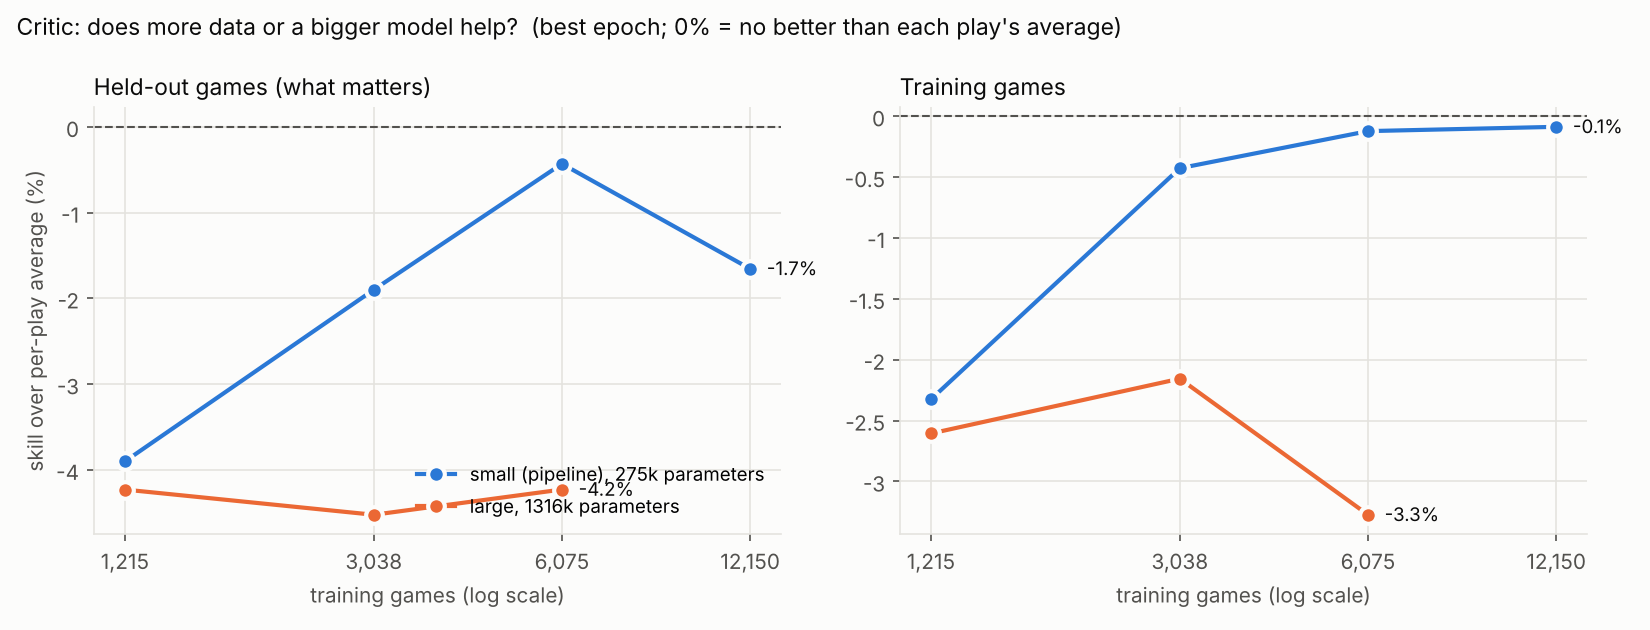
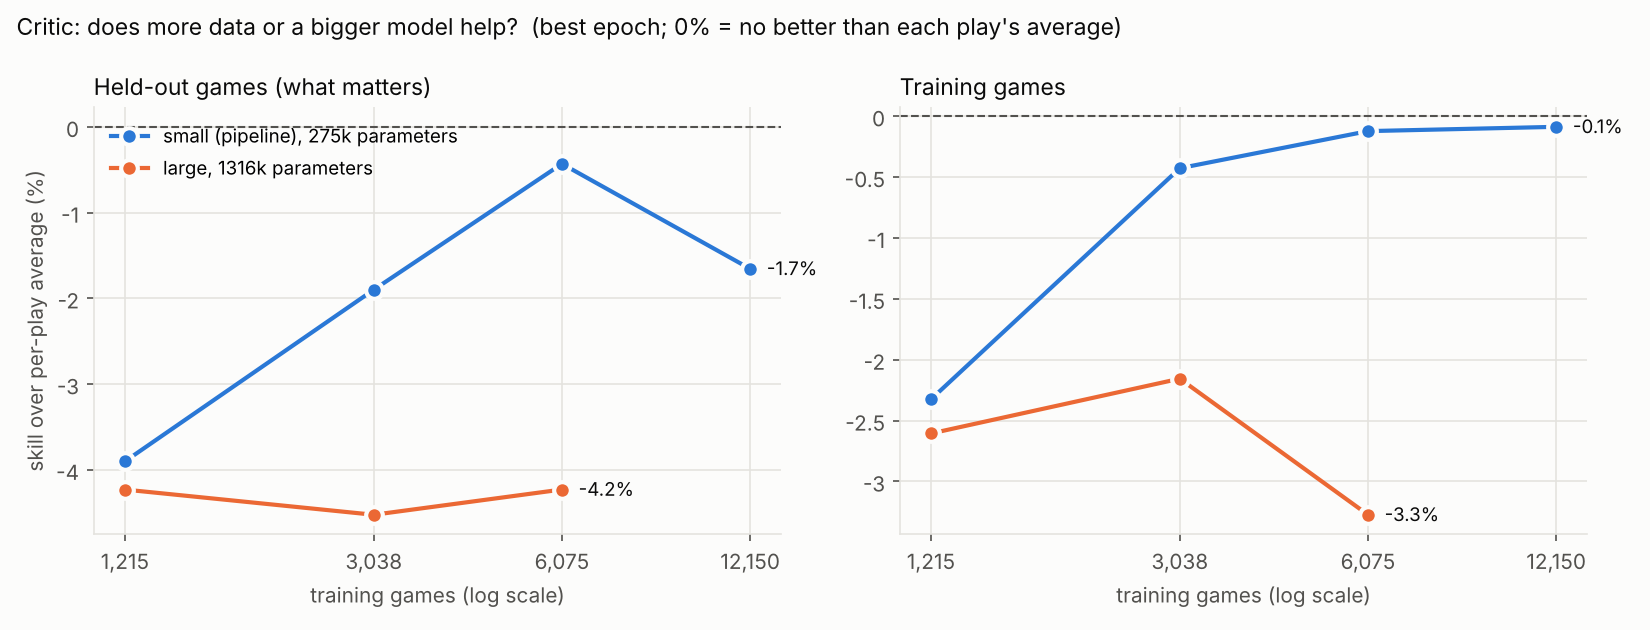
Learning-curve plot: move legend clear of labels
Claude-Session: https://claude.ai/code/session_0181JhLqWhXqLGwGgcMDkkaL

Changed region(s): [[0.2473, 0.7238, 0.4636, 0.8143], [0.0618, 0.181, 0.2782, 0.3016]]

diff --git a/scripts/critic_learning_curve.py b/scripts/critic_learning_curve.py
@@ -134,7 +134,7 @@ def plot(res: dict, path: Path) -> None:
         ax.tick_params(colors=muted)
         ax.yaxis.set_major_formatter(matplotlib.ticker.FuncFormatter(lambda v, _: f"{v:g}"))
     axes[0].set_ylabel("skill over per-play average (%)", color=muted)
-    axes[0].legend(frameon=False, fontsize=9, loc="lower right")
+    axes[0].legend(frameon=False, fontsize=9, loc="upper left")
     fig.suptitle("Critic: does more data or a bigger model help?  (best epoch; 0% = no better than "
                  "each play's average)", color=ink, fontsize=11, x=0.01, ha="left")
     fig.tight_layout()
